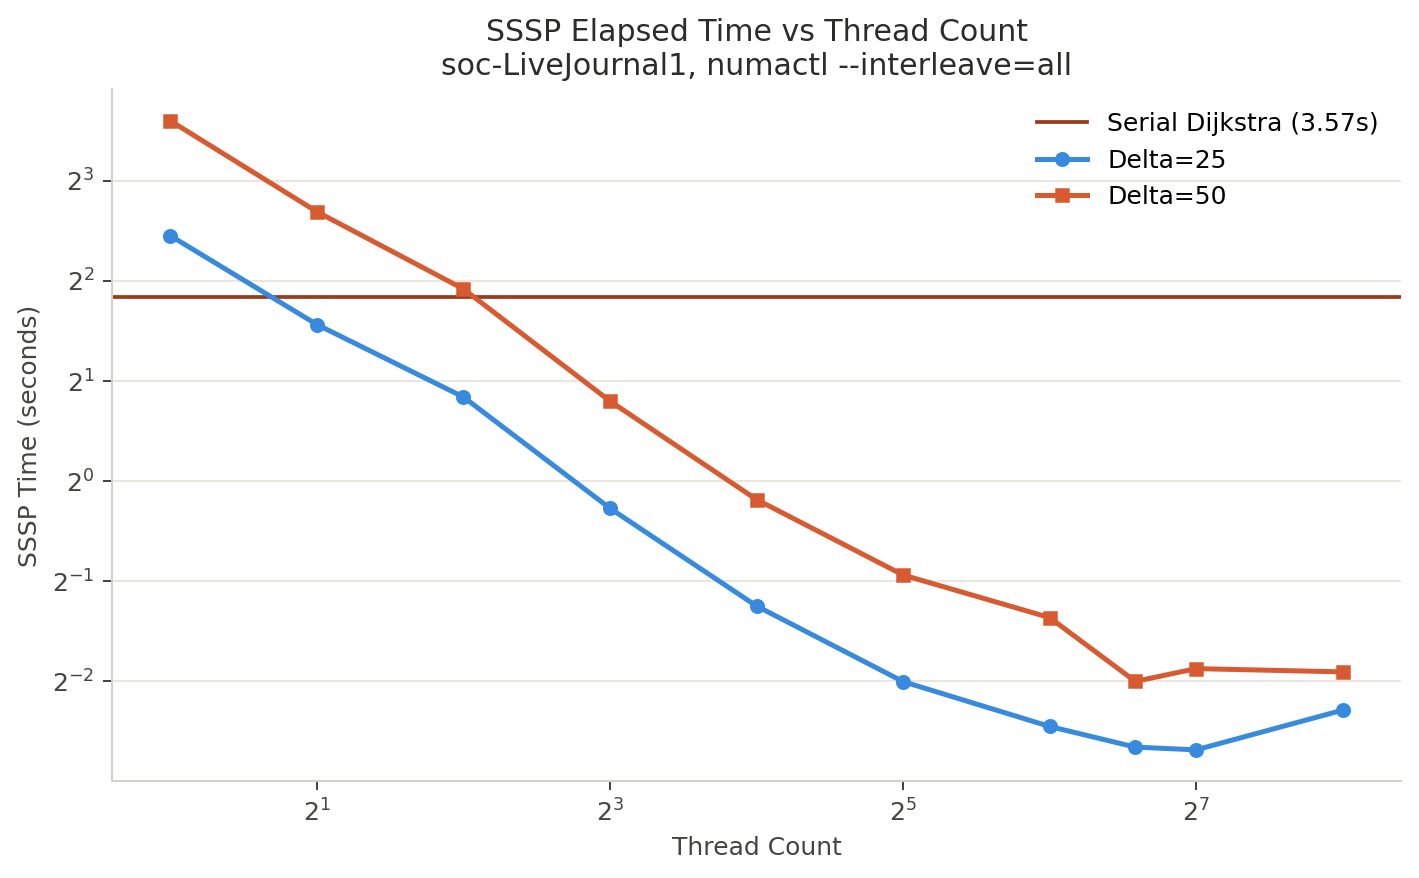
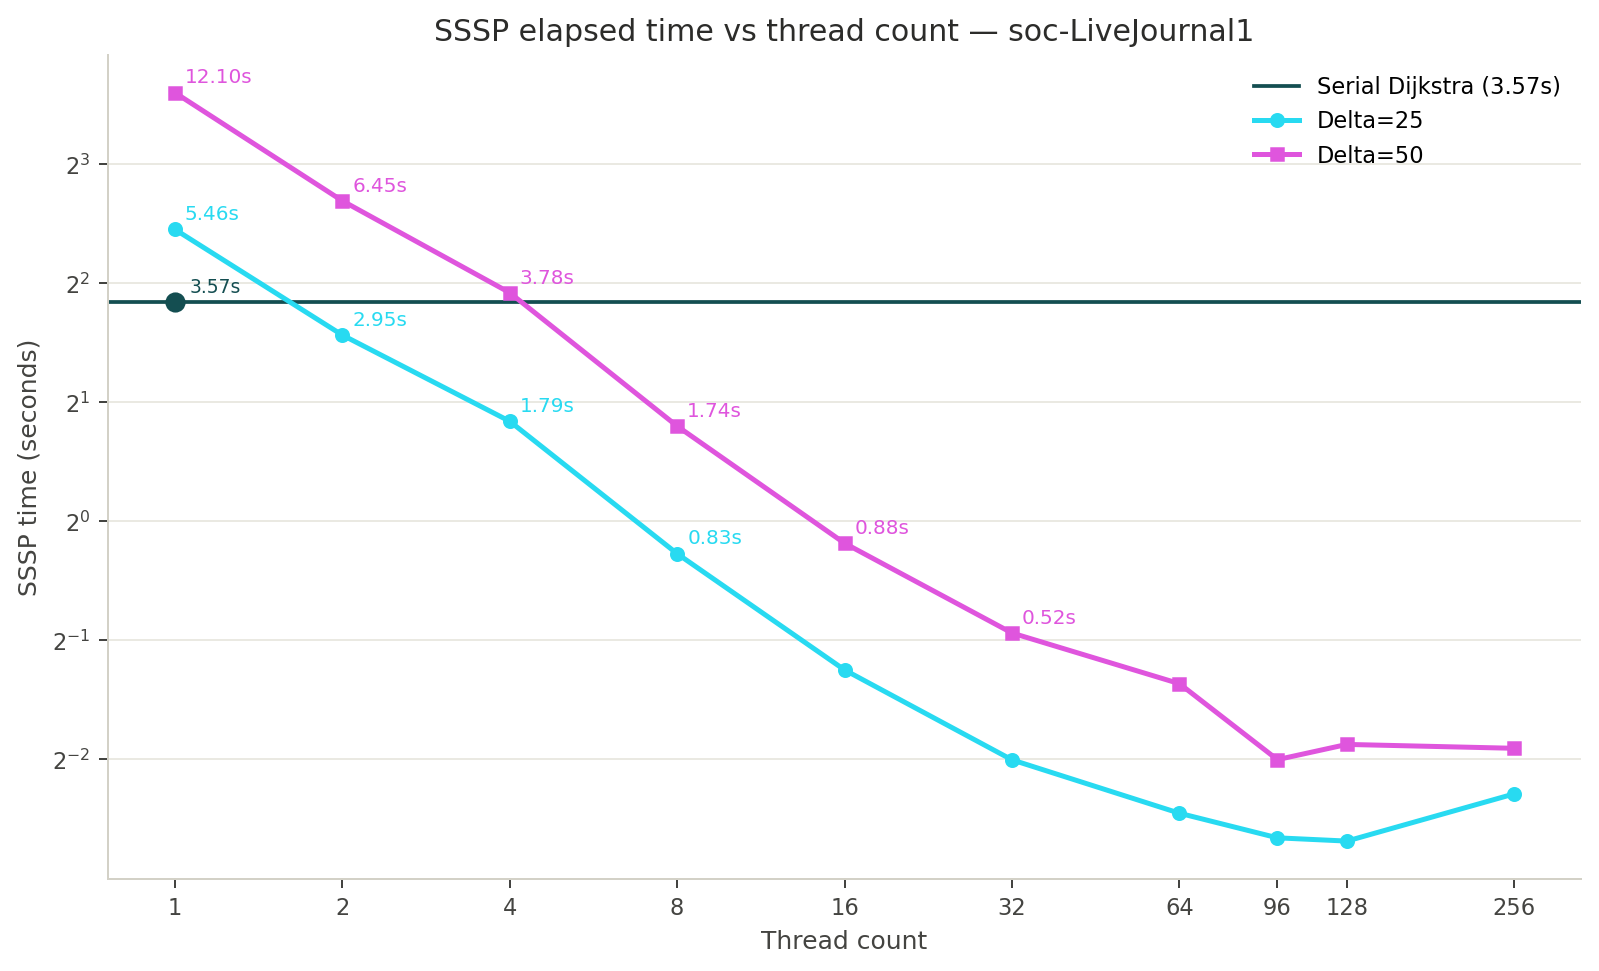
graphs dj

diff --git a/dj_charts/v1/generate.py b/dj_charts/v1/generate.py
@@ -1,5 +1,6 @@
 import pandas as pd
 import matplotlib.pyplot as plt
+import matplotlib.ticker as ticker
 import numpy as np
 import sys
 
@@ -13,60 +14,117 @@ d50 = par[par['delta'] == 50].sort_values('threads')
 threads_25 = d25['threads'].values
 threads_50 = d50['threads'].values
 
-BLUE         = '#378ADD'
-ORANGE       = '#D85A30'
-GREY         = '#B4B2A9'
-LIGHT_BLUE   = '#B5D4F4'
+CYAN    = "#28DAF1"
+MAGENTA = "#df55dd"
+GREY    = "#3F2D21"
+RED     = "#144E51"
 
-def style(ax):
+def style(ax, xticks=None, xticklabels=None):
     ax.spines['top'].set_visible(False)
     ax.spines['right'].set_visible(False)
     ax.spines['left'].set_color('#D3D1C7')
     ax.spines['bottom'].set_color('#D3D1C7')
-    ax.yaxis.grid(True, color='#E8E6DF', zorder=0)
+    ax.yaxis.grid(True, color='#E8E6DF', zorder=0, linewidth=0.7)
     ax.set_axisbelow(True)
-    ax.tick_params(colors='#444441')
+    ax.tick_params(colors='#444441', labelsize=9)
     ax.yaxis.label.set_color('#444441')
     ax.xaxis.label.set_color('#444441')
     ax.title.set_color('#2C2C2A')
+    if xticks is not None:
+        ax.set_xticks(xticks)
+        ax.set_xticklabels([str(t) for t in xticklabels], fontsize=9)
 
-# chart 1 — speedup
-fig, ax = plt.subplots(figsize=(8, 5))
+def label_points(ax, xs, ys, color, fmt='{:.1f}x', offset=(4, 4), fontsize=8, skip_threshold=None):
+    prev_y = None
+    for x, y in zip(xs, ys):
+        if skip_threshold and y < skip_threshold:
+            continue
+        label = fmt.format(y)
+        # alternate above/below if points are close
+        dy = offset[1]
+        if prev_y is not None and abs(y - prev_y) < 0.15 * y:
+            dy = -offset[1] - 8
+        ax.annotate(label, xy=(x, y), xytext=(offset[0], dy),
+                    textcoords='offset points', fontsize=fontsize,
+                    color=color, fontweight='500')
+        prev_y = y
+
+
+# ── Chart 1: SSSP Speedup vs Threads ─────────────────────────────────────────
+fig, ax = plt.subplots(figsize=(9, 5.5))
 fig.patch.set_facecolor('white'); ax.set_facecolor('white')
-ax.plot([1, 256], [1, 256], '--', color=GREY, linewidth=1.2, label='Ideal')
-ax.plot(threads_25, d25['sssp_speedup'], 'o-', color=BLUE,   linewidth=2, markersize=5, label='Delta=25')
-ax.plot(threads_50, d50['sssp_speedup'], 's-', color=ORANGE, linewidth=2, markersize=5, label='Delta=50')
-ax.axhline(y=1, color='#888780', linewidth=0.8, linestyle=':')
-ax.set_xscale('log', base=2); ax.set_yscale('log', base=2)
-ax.set_xlabel('Thread Count'); ax.set_ylabel('Speedup vs Serial Dijkstra')
-ax.set_title('SSSP Speedup vs Thread Count\nsoc-LiveJournal1, numactl --interleave=all')
-ax.legend(frameon=False, fontsize=10); style(ax); plt.tight_layout()
-plt.savefig('chart1_speedup.png', dpi=180, bbox_inches='tight'); plt.close()
+
+all_threads = sorted(set([1] + list(threads_25) + list(threads_50)))
+ideal_x = np.array([1] + list(threads_25))
+ideal_y = ideal_x.astype(float)
+
+ax.plot(ideal_x, ideal_y, '--', color=GREY, linewidth=1.2, label='Ideal linear', zorder=1)
+
+# serial point at (1, 1)
+ax.scatter([1], [1.0], color='black', zorder=5, s=50)
+ax.annotate('serial\n1.0x', xy=(1, 1.0), xytext=(6, -14),
+            textcoords='offset points', fontsize=7.5, color='#444441')
+
+ax.plot(threads_25, d25['sssp_speedup'], 'o-', color=CYAN,    linewidth=2, markersize=5, label='Delta=25', zorder=3)
+ax.plot(threads_50, d50['sssp_speedup'], 's-', color=MAGENTA, linewidth=2, markersize=5, label='Delta=50', zorder=3)
+
+label_points(ax, threads_25, d25['sssp_speedup'].values, CYAN,    skip_threshold=1.5)
+label_points(ax, threads_50, d50['sssp_speedup'].values, MAGENTA, skip_threshold=1.5)
+
+ax.set_xscale('log', base=2)
+ax.set_yscale('log', base=2)
+style(ax, xticks=all_threads, xticklabels=all_threads)
+ax.set_xlabel('Thread count')
+ax.set_ylabel('Speedup vs serial Dijkstra')
+ax.set_title('SSSP speedup vs thread count — soc-LiveJournal1')
+ax.legend(frameon=False, fontsize=9)
+plt.tight_layout()
+plt.savefig('chart1_speedup.png', dpi=180, bbox_inches='tight')
+plt.close()
 print("chart1 done")
 
-# chart 2 — sssp time
-fig, ax = plt.subplots(figsize=(8, 5))
+
+# ── Chart 2: SSSP Time vs Threads ────────────────────────────────────────────
+fig, ax = plt.subplots(figsize=(9, 5.5))
 fig.patch.set_facecolor('white'); ax.set_facecolor('white')
-ax.axhline(y=serial_time, color='#993C1D', linewidth=1.5, linestyle='-', label=f'Serial Dijkstra ({serial_time:.2f}s)')
-ax.plot(threads_25, d25['sssp_time_s'], 'o-', color=BLUE,   linewidth=2, markersize=5, label='Delta=25')
-ax.plot(threads_50, d50['sssp_time_s'], 's-', color=ORANGE, linewidth=2, markersize=5, label='Delta=50')
-ax.set_xscale('log', base=2); ax.set_yscale('log', base=2)
-ax.set_xlabel('Thread Count'); ax.set_ylabel('SSSP Time (seconds)')
-ax.set_title('SSSP Elapsed Time vs Thread Count\nsoc-LiveJournal1, numactl --interleave=all')
-ax.legend(frameon=False, fontsize=10); style(ax); plt.tight_layout()
-plt.savefig('chart2_sssp_time.png', dpi=180, bbox_inches='tight'); plt.close()
+
+ax.axhline(y=serial_time, color=RED, linewidth=1.5, linestyle='-',
+           label=f'Serial Dijkstra ({serial_time:.2f}s)', zorder=2)
+# serial point
+ax.scatter([1], [serial_time], color=RED, zorder=5, s=50)
+ax.annotate(f'{serial_time:.2f}s', xy=(1, serial_time), xytext=(6, 4),
+            textcoords='offset points', fontsize=7.5, color=RED)
+
+ax.plot(threads_25, d25['sssp_time_s'], 'o-', color=CYAN,    linewidth=2, markersize=5, label='Delta=25', zorder=3)
+ax.plot(threads_50, d50['sssp_time_s'], 's-', color=MAGENTA, linewidth=2, markersize=5, label='Delta=50', zorder=3)
+
+label_points(ax, threads_25, d25['sssp_time_s'].values, CYAN,    fmt='{:.2f}s', skip_threshold=0.5)
+label_points(ax, threads_50, d50['sssp_time_s'].values, MAGENTA, fmt='{:.2f}s', skip_threshold=0.5)
+
+ax.set_xscale('log', base=2)
+ax.set_yscale('log', base=2)
+style(ax, xticks=all_threads, xticklabels=all_threads)
+ax.set_xlabel('Thread count')
+ax.set_ylabel('SSSP time (seconds)')
+ax.set_title('SSSP elapsed time vs thread count — soc-LiveJournal1')
+ax.legend(frameon=False, fontsize=9)
+plt.tight_layout()
+plt.savefig('chart2_sssp_time.png', dpi=180, bbox_inches='tight')
+plt.close()
 print("chart2 done")
 
-# chart 3 — timing breakdown stacked bar (delta=25)
-fig, ax = plt.subplots(figsize=(10, 5.5))
+
+# ── Chart 3: Timing Breakdown Stacked Bar (delta=25) ─────────────────────────
+fig, ax = plt.subplots(figsize=(11, 5.5))
 fig.patch.set_facecolor('white'); ax.set_facecolor('white')
+
 x = np.arange(len(threads_25)); w = 0.55
 cols = {
-    'parallel_relaxation_s': ('#378ADD', 'Parallel relaxation'),
-    'parallel_merge_s':      ('#5BA85A', 'Parallel merge'),
-    'snapshot_s':            ('#D85A30', 'Snapshot'),
-    'flatten_processed_s':   ('#9B6BB5', 'Flatten'),
-    'outgoing_clear_s':      ('#E8A020', 'Outgoing clear'),
+    'parallel_relaxation_s': ('#00BCD4', 'Parallel relaxation'),
+    'parallel_merge_s':      ("#AFDE8F", 'Parallel merge'),
+    'snapshot_s':            ('#E91E8C', 'Snapshot'),
+    'flatten_processed_s':   ("#71219C", 'Flatten'),
+    'outgoing_clear_s':      ("#FFA200", 'Outgoing clear'),
     'find_min_bucket_s':     ('#888780', 'Find min bucket'),
 }
 bottoms = np.zeros(len(threads_25))
@@ -74,61 +132,99 @@ for col, (color, label) in cols.items():
     vals = d25[col].values
     ax.bar(x, vals, w, bottom=bottoms, color=color, label=label, zorder=3)
     bottoms += vals
-ax.set_xticks(x); ax.set_xticklabels([str(t) for t in threads_25], fontsize=10)
-ax.set_xlabel('Thread Count'); ax.set_ylabel('Time (seconds)')
-ax.set_title('Timing Breakdown by Section — Delta=25\nsoc-LiveJournal1, numactl --interleave=all')
-ax.legend(frameon=False, fontsize=9, loc='upper right'); style(ax); plt.tight_layout()
-plt.savefig('chart3_timing_breakdown.png', dpi=180, bbox_inches='tight'); plt.close()
+
+style(ax, xticks=x, xticklabels=threads_25)
+ax.set_xlabel('Thread count')
+ax.set_ylabel('Time (seconds)')
+ax.set_title('Timing breakdown by section — delta=25, soc-LiveJournal1')
+ax.legend(frameon=False, fontsize=9, loc='upper right')
+plt.tight_layout()
+plt.savefig('chart3_timing_breakdown.png', dpi=180, bbox_inches='tight')
+plt.close()
 print("chart3 done")
 
-# chart 4 — preprocessing vs sssp
-fig, ax = plt.subplots(figsize=(10, 5.5))
+
+# ── Chart 4: Preprocessing vs SSSP Time ───────────────────────────────────────
+fig, ax = plt.subplots(figsize=(11, 5.5))
 fig.patch.set_facecolor('white'); ax.set_facecolor('white')
+
 x = np.arange(len(threads_25)); w = 0.35
-bars1 = ax.bar(x - w/2, d25['sssp_time_s'],     w, color=BLUE,       label='SSSP time', zorder=3)
-bars2 = ax.bar(x + w/2, d25['preprocessing_s'], w, color=LIGHT_BLUE,
-               edgecolor=BLUE, linewidth=1, label='Preprocessing (CSR build)', zorder=3)
+bars1 = ax.bar(x - w/2, d25['sssp_time_s'],     w, color=CYAN,
+               label='SSSP time', zorder=3)
+bars2 = ax.bar(x + w/2, d25['preprocessing_s'], w, color=MAGENTA,
+               alpha=0.55, edgecolor=MAGENTA, linewidth=1,
+               label='Preprocessing (CSR build)', zorder=3)
+
 for bar, val in zip(bars1, d25['sssp_time_s'].values):
-    if val > 0.3:
-        ax.text(bar.get_x() + bar.get_width()/2, bar.get_height() + 0.05,
-                f'{val:.2f}s', ha='center', va='bottom', fontsize=7, color='#444441')
-for bar, val in zip(bars2, d25['preprocessing_s'].values):
-    if val > 0.3:
-        ax.text(bar.get_x() + bar.get_width()/2, bar.get_height() + 0.05,
+    if val > 0.25:
+        ax.text(bar.get_x() + bar.get_width()/2, bar.get_height() + 0.04,
                 f'{val:.2f}s', ha='center', va='bottom', fontsize=7, color='#185FA5')
-ax.set_xticks(x); ax.set_xticklabels([str(t) for t in threads_25], fontsize=10)
-ax.set_xlabel('Thread Count'); ax.set_ylabel('Time (seconds)')
-ax.set_title('SSSP vs Preprocessing Time — Delta=25\nPreprocessing = one-time local CSR build (amortized)')
-ax.legend(frameon=False, fontsize=10); style(ax); plt.tight_layout()
-plt.savefig('chart4_preprocess_vs_sssp.png', dpi=180, bbox_inches='tight'); plt.close()
+for bar, val in zip(bars2, d25['preprocessing_s'].values):
+    if val > 0.25:
+        ax.text(bar.get_x() + bar.get_width()/2, bar.get_height() + 0.04,
+                f'{val:.2f}s', ha='center', va='bottom', fontsize=7, color='#880050')
+
+style(ax, xticks=x, xticklabels=threads_25)
+ax.set_xlabel('Thread count')
+ax.set_ylabel('Time (seconds)')
+ax.set_title('SSSP vs preprocessing time — delta=25\npreprocessing = one-time local CSR build (amortized)')
+ax.legend(frameon=False, fontsize=9)
+plt.tight_layout()
+plt.savefig('chart4_preprocess_vs_sssp.png', dpi=180, bbox_inches='tight')
+plt.close()
 print("chart4 done")
 
-# chart 5 — bandwidth
-fig, ax = plt.subplots(figsize=(8, 5))
+
+# ── Chart 5: Effective Bandwidth vs Threads ───────────────────────────────────
+fig, ax = plt.subplots(figsize=(9, 5.5))
 fig.patch.set_facecolor('white'); ax.set_facecolor('white')
-ax.axhline(y=400, color='#993C1D', linewidth=1.5, linestyle='--', label='Peak node bandwidth (400 GB/s)')
-ax.plot(threads_25, d25['effective_bandwidth_gbs'], 'o-', color=BLUE,   linewidth=2, markersize=5, label='Delta=25')
-ax.plot(threads_50, d50['effective_bandwidth_gbs'], 's-', color=ORANGE, linewidth=2, markersize=5, label='Delta=50')
+
+ax.axhline(y=400, color=RED, linewidth=1.5, linestyle='--',
+           label='Peak node bandwidth (400 GB/s)', zorder=2)
+ax.annotate('400 GB/s peak', xy=(256, 400), xytext=(-60, 6),
+            textcoords='offset points', fontsize=8, color=RED)
+
+ax.plot(threads_25, d25['effective_bandwidth_gbs'], 'o-', color=CYAN,    linewidth=2, markersize=5, label='Delta=25', zorder=3)
+ax.plot(threads_50, d50['effective_bandwidth_gbs'], 's-', color=MAGENTA, linewidth=2, markersize=5, label='Delta=50', zorder=3)
+
+label_points(ax, threads_25, d25['effective_bandwidth_gbs'].values, CYAN,    fmt='{:.1f}', skip_threshold=5)
+label_points(ax, threads_50, d50['effective_bandwidth_gbs'].values, MAGENTA, fmt='{:.1f}', skip_threshold=5)
+
 ax.set_xscale('log', base=2)
-ax.set_xlabel('Thread Count'); ax.set_ylabel('Effective Memory Bandwidth (GB/s)')
-ax.set_title('Effective Memory Bandwidth vs Thread Count\n~4-6% of peak — memory-bound irregular access pattern')
-ax.legend(frameon=False, fontsize=10); style(ax); plt.tight_layout()
-plt.savefig('chart5_bandwidth.png', dpi=180, bbox_inches='tight'); plt.close()
+style(ax, xticks=all_threads, xticklabels=all_threads)
+ax.set_xlabel('Thread count')
+ax.set_ylabel('Effective memory bandwidth (GB/s)')
+ax.set_title('Effective memory bandwidth vs thread count\n~4–6% of peak — irregular random access pattern')
+ax.legend(frameon=False, fontsize=9)
+plt.tight_layout()
+plt.savefig('chart5_bandwidth.png', dpi=180, bbox_inches='tight')
+plt.close()
 print("chart5 done")
 
-# chart 6 — delta comparison total vs sssp
-fig, ax = plt.subplots(figsize=(8, 5))
+
+# ── Chart 6: Delta Comparison Total vs SSSP ───────────────────────────────────
+fig, ax = plt.subplots(figsize=(9, 5.5))
 fig.patch.set_facecolor('white'); ax.set_facecolor('white')
-ax.axhline(y=serial_time, color='#993C1D', linewidth=1.5, linestyle='-', label=f'Serial Dijkstra ({serial_time:.2f}s)')
-ax.plot(threads_25, d25['total_time_s'],  'o-',  color=BLUE,   linewidth=2,   markersize=5, label='Delta=25 (total)')
-ax.plot(threads_50, d50['total_time_s'],  's-',  color=ORANGE, linewidth=2,   markersize=5, label='Delta=50 (total)')
-ax.plot(threads_25, d25['sssp_time_s'],   'o--', color=BLUE,   linewidth=1.2, markersize=4, alpha=0.6, label='Delta=25 (SSSP only)')
-ax.plot(threads_50, d50['sssp_time_s'],   's--', color=ORANGE, linewidth=1.2, markersize=4, alpha=0.6, label='Delta=50 (SSSP only)')
-ax.set_xscale('log', base=2); ax.set_yscale('log', base=2)
-ax.set_xlabel('Thread Count'); ax.set_ylabel('Time (seconds)')
-ax.set_title('Total vs SSSP-only Time — Delta Comparison\nSolid = total (incl. preprocessing), Dashed = SSSP only')
-ax.legend(frameon=False, fontsize=9); style(ax); plt.tight_layout()
-plt.savefig('chart6_delta_comparison.png', dpi=180, bbox_inches='tight'); plt.close()
+
+ax.axhline(y=serial_time, color=RED, linewidth=1.5, linestyle='-',
+           label=f'Serial Dijkstra ({serial_time:.2f}s)', zorder=2)
+ax.scatter([1], [serial_time], color=RED, zorder=5, s=50)
+
+ax.plot(threads_25, d25['total_time_s'],  'o-',  color=CYAN,    linewidth=2,   markersize=5, label='Delta=25 total')
+ax.plot(threads_50, d50['total_time_s'],  's-',  color=MAGENTA, linewidth=2,   markersize=5, label='Delta=50 total')
+ax.plot(threads_25, d25['sssp_time_s'],   'o--', color=CYAN,    linewidth=1.2, markersize=4, alpha=0.6, label='Delta=25 SSSP only')
+ax.plot(threads_50, d50['sssp_time_s'],   's--', color=MAGENTA, linewidth=1.2, markersize=4, alpha=0.6, label='Delta=50 SSSP only')
+
+ax.set_xscale('log', base=2)
+ax.set_yscale('log', base=2)
+style(ax, xticks=all_threads, xticklabels=all_threads)
+ax.set_xlabel('Thread count')
+ax.set_ylabel('Time (seconds)')
+ax.set_title('Total vs SSSP-only time — delta comparison\nsolid = total (incl. preprocessing), dashed = SSSP only')
+ax.legend(frameon=False, fontsize=9)
+plt.tight_layout()
+plt.savefig('chart6_delta_comparison.png', dpi=180, bbox_inches='tight')
+plt.close()
 print("chart6 done")
 
 print("All charts saved.")
